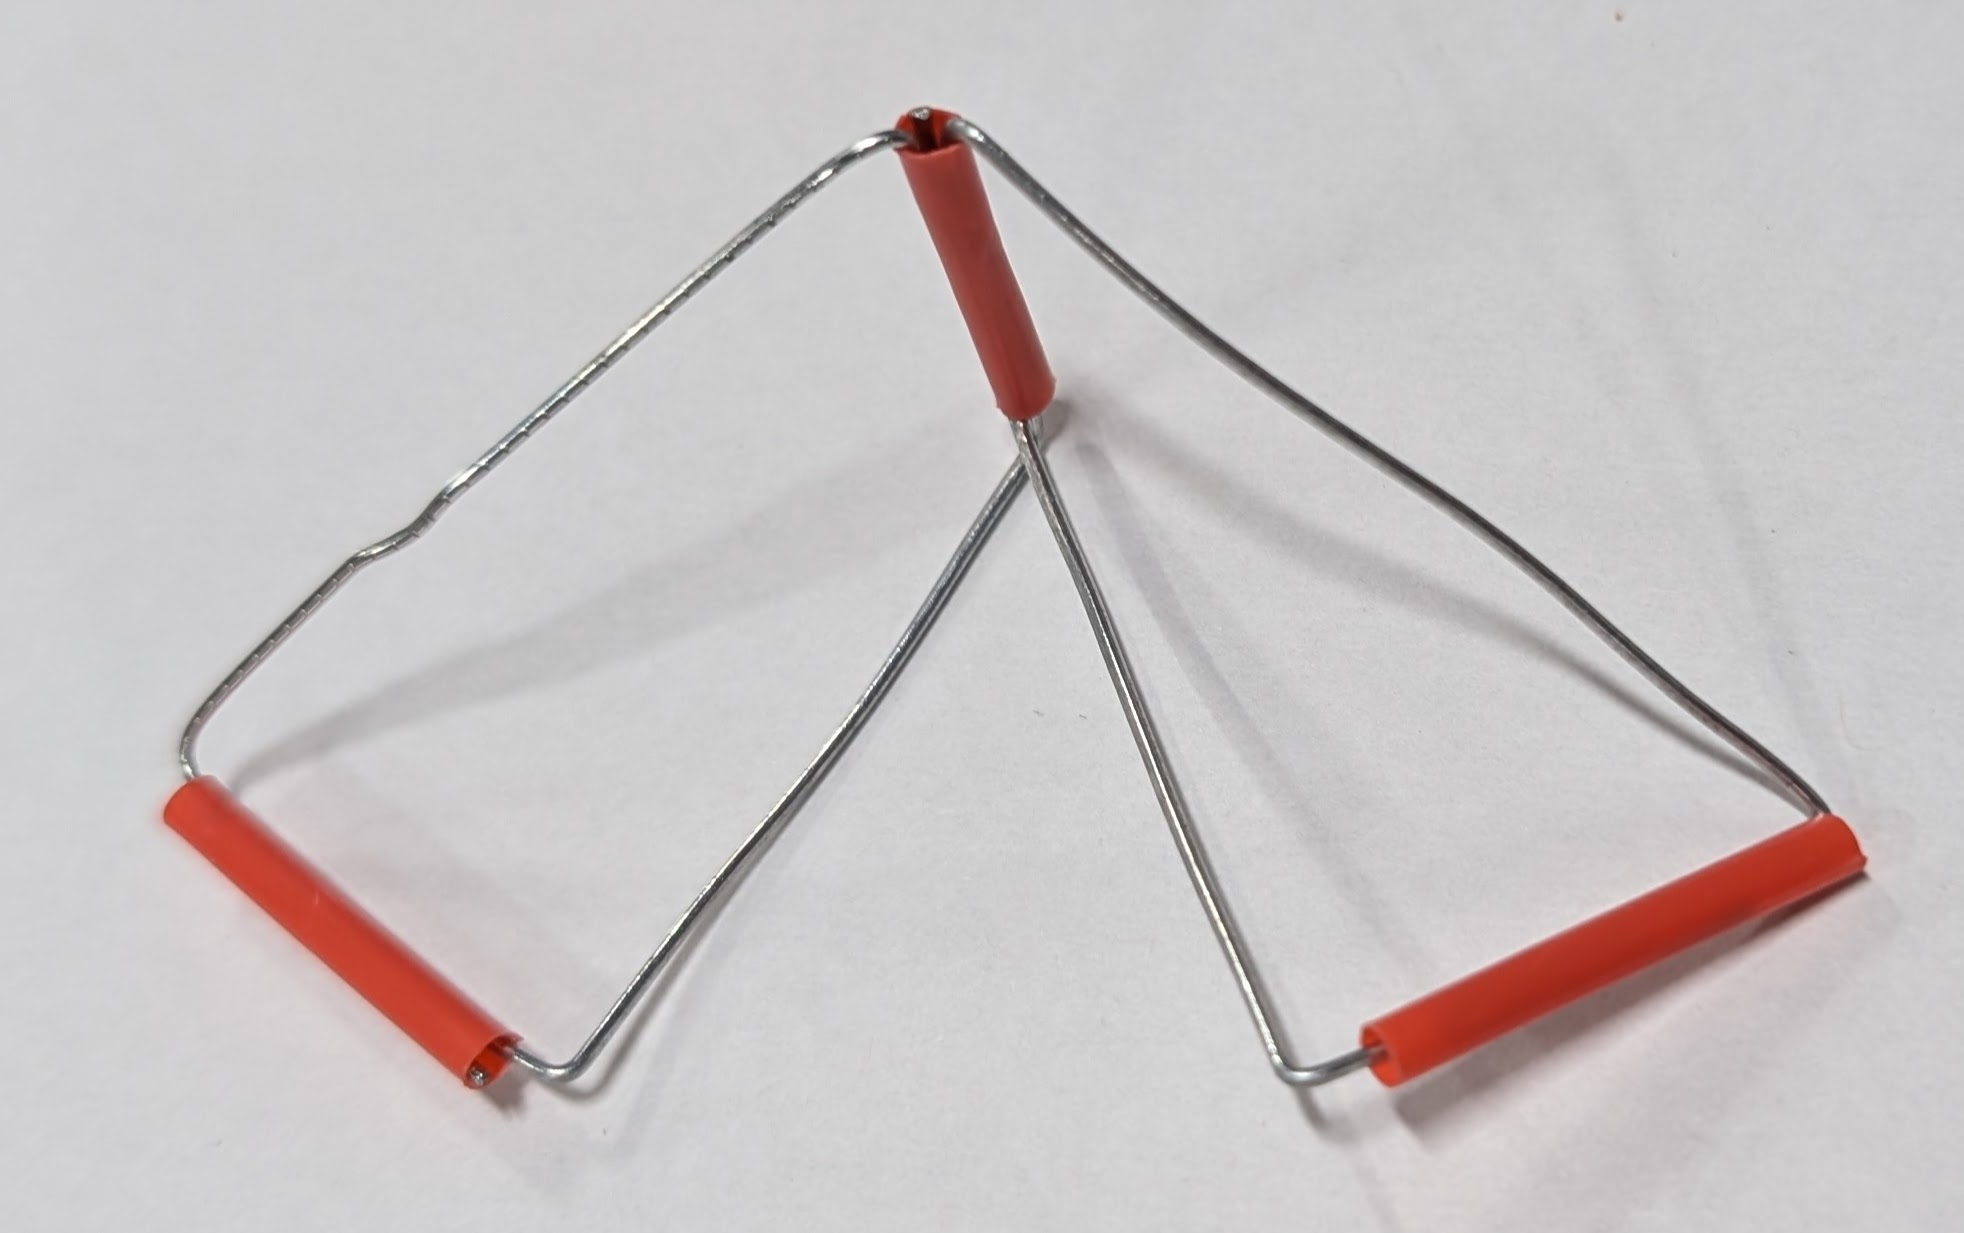
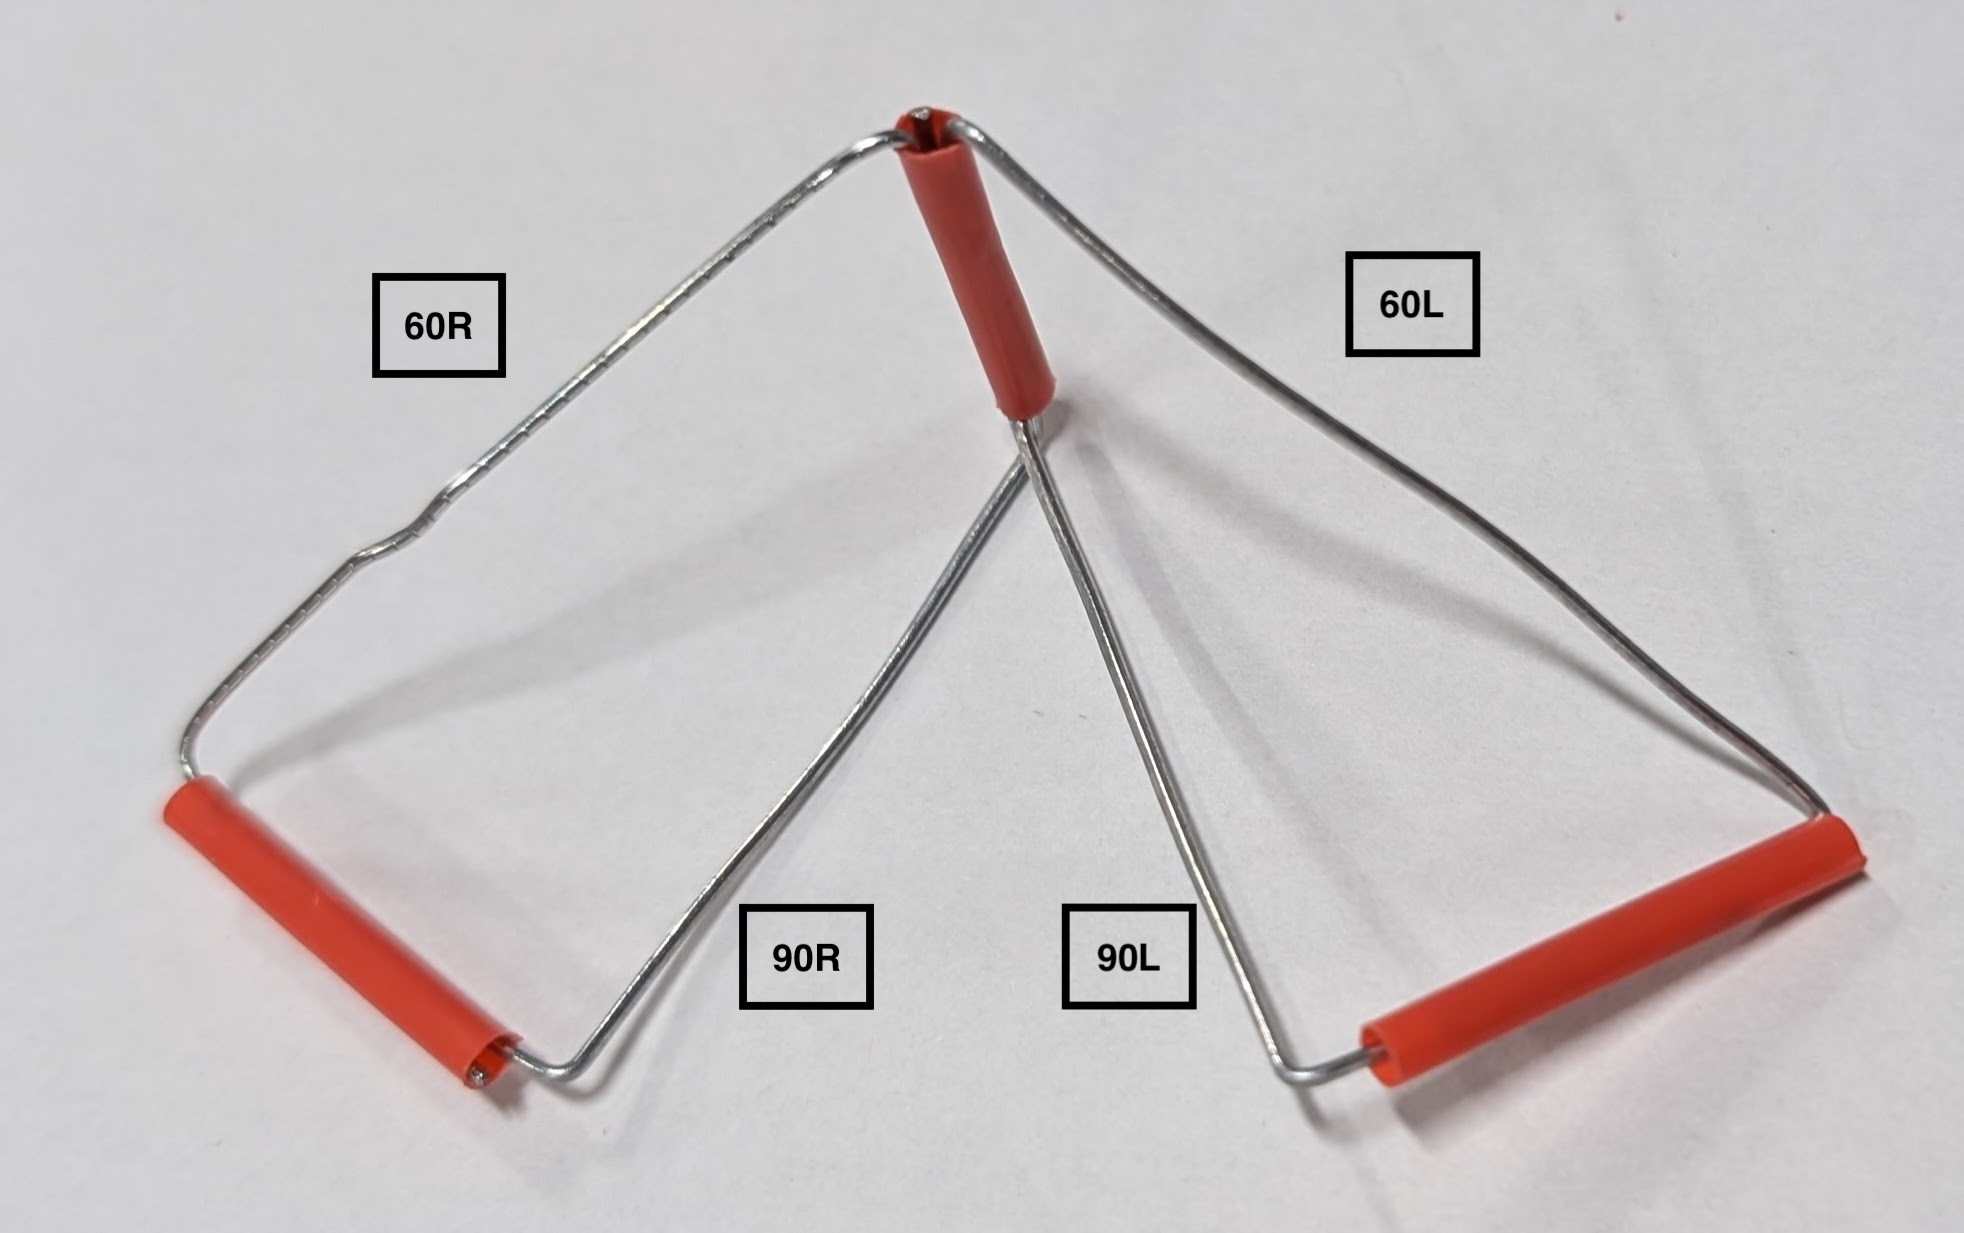
Complete instructions page

diff --git a/_pages/3Dflexagon.md b/_pages/3Dflexagon.md
@@ -29,7 +29,7 @@ It is easiest to bend the wire with a simple jig.
     If you have access to a table saw and are comfortable with making precise cuts, cut a small board which is 22 mm wide. You can use this for bending the ends of the wires.
 ## Assembly Notes
 Here is a photo of the finished assembly.
-{% include figure image_path="/assets/images/project-3Dflexagon.jpg" class="half" alt="Description" caption="Figure 1: Finished 3D Flexagon." %}
+{% include figure image_path="/assets/images/project-3Dflexagon.jpg" class="align-center half" alt="Finished Flexagon" caption="Figure 1: Finished 3D Flexagon." %}
 
 * Note 1: There are four wires going into each straw, two from each direction. 
 * Note 2: In this orientation, the wires with right angles (see figure 2) end up making a large equilateral triangle where each side has two wire segments that are “horizontal” with straws pointing outward. The wires with ~60° angles connect the “vertical” straws to the “horizontal” straws in an “up and down” pattern. 
@@ -41,6 +41,9 @@ Unbend the paper clips to create 12 wires that are more or less straight. Cut 6 
 ## Step 2: Cut the straw
 Cut the straw into 22mm segments. You will need 6 of them.
 ## Step 3: Bending the 85 mm segments
+Start by bending a 90° angle in the 85 mm wires, with 22mm on side of the angle. On the other end of the same wire, bend another 90° angle <span style="color: red; font-weight: bold;">which is in a different plane</span>. Do this two more times for a total 3 wires. Repeat the process for the other three 85 mm wires, but this time bend the 90° angle in the opposite direction (e.g. down instead of up). You should end up with 6 zigzag wires, which we call 90R and 90L as shown in figure 2. 
+{% include figure image_path="/assets/images/3Dflexagon-figure2-90degree-parts.jpg" class="align-center half" alt="Flexagon 90 degree parts" caption="Figure 2: 85 mm wires bent into non-planar 90° angles, with 22 mm ends." %}
+
 ## Step 4: Bending the 95 mm segments
 ## Step 5: Assembly
 ## Step 6. Flexing!
